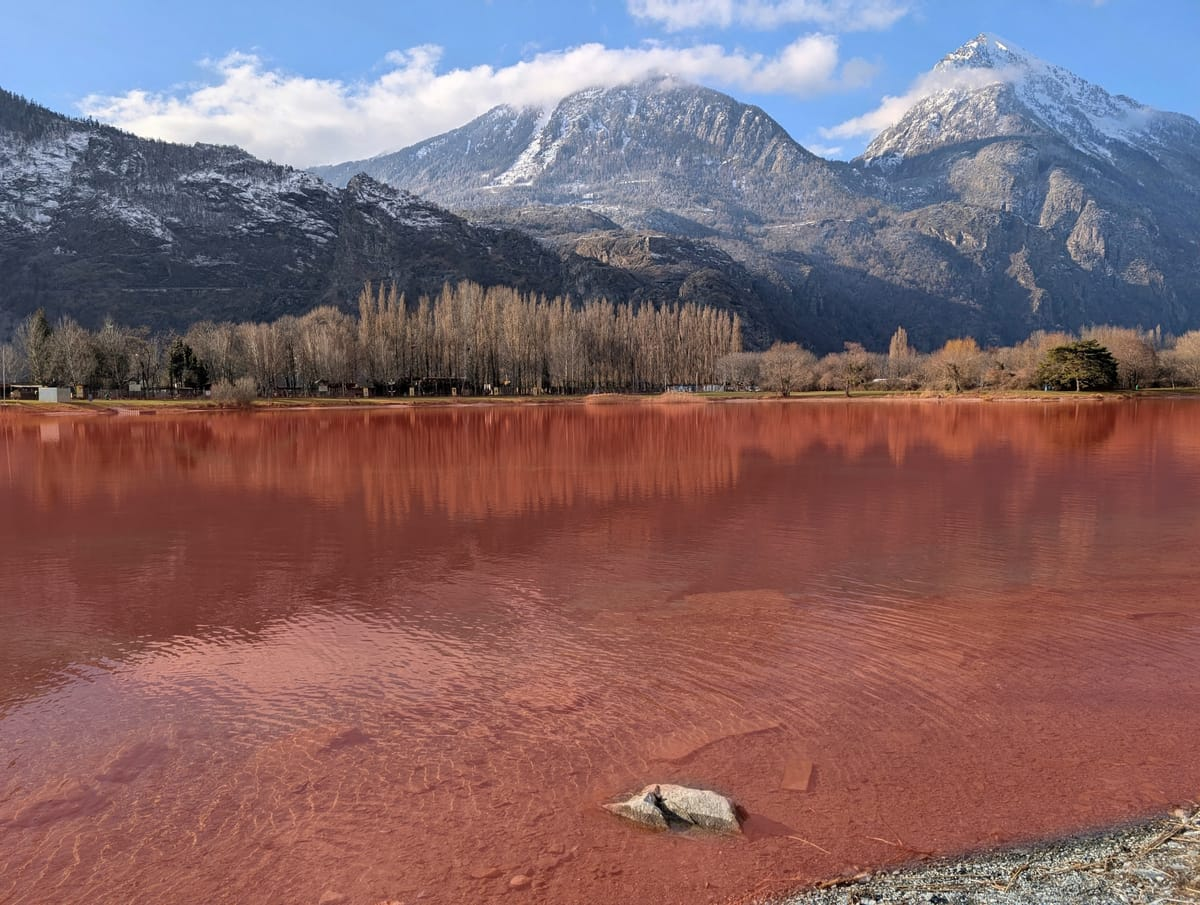
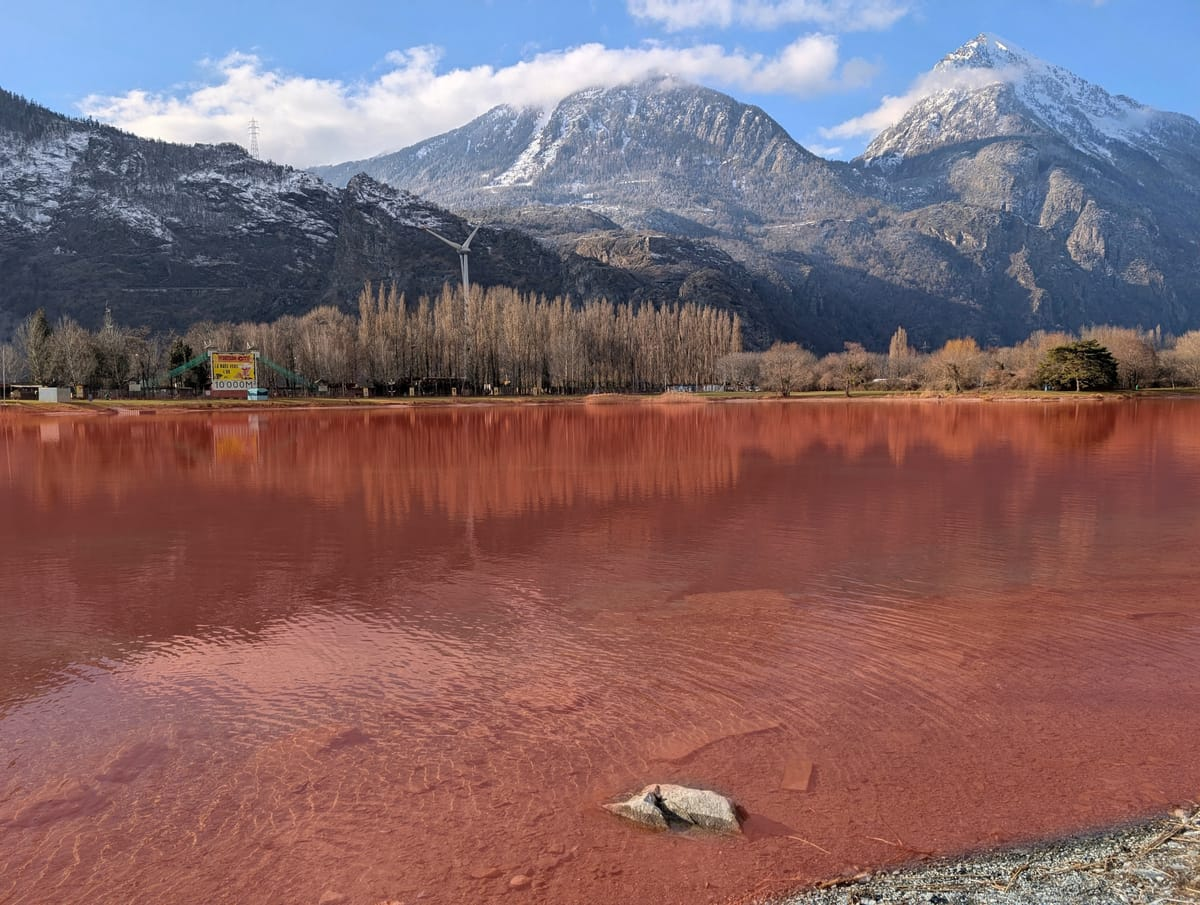
feat(images): apply the Gate 3 choices
Hero: lac du Rosel with only the power lines removed (wind turbine, billboard
and pylons kept), same rule on the Rosel photo of the places; interlude B is
the current image without its watermark; option B and the other candidates
removed. Logo navy on white or white on black only: icons navy on white.

Changed region(s): [[0.1233, 0.3713, 0.2467, 0.526], [0.3392, 0.2475, 0.4008, 0.3713], [0.185, 0.1547, 0.2158, 0.1856]]

diff --git a/src/assets/images/CREDITS.md b/src/assets/images/CREDITS.md
@@ -6,21 +6,18 @@
 
 | Fichier | Source | Auteur / outil | Traitement |
 |---|---|---|---|
-| `hero/rosel.jpg` (4080×3072) | `original/rosel_2.jpg` (lac du Rosel, Martigny ; original de l'ancien `rosel-2400.jpg`) | Nicholas Jallan ; retouche Gemini | **Retouche de nettoyage** (gate 3, option A) : lignes électriques, pylône, éolienne et son reflet, panneau « Western City / 10 000 m² » et son reflet, toboggans, deux petits mâts. Méthode : 8 tuiles retouchées à quasi pleine résolution (×1,23 au plus), recalées automatiquement, calées en couleur sur l'original et fondues ; l'eau et le premier plan restent les pixels d'origine. Contrôle avant/après à 100 % : `plans/refonte-la-descente/gates/gate-3/02-hero-a-zoom-100.jpg` |
-| `hero/sion.jpg` (3200×1800) | `original/sion_les_iles_1.jpg` (Les Îles, Sion, au crépuscule) | Nicholas Jallan | Gate 3, option B : réduit de 5312 px, sans retouche |
+| `hero/rosel.jpg` (4080×3072) | `original/rosel_2.jpg` (lac du Rosel, Martigny ; original de l'ancien `rosel-2400.jpg`) | Nicholas Jallan ; retouche Gemini | **Retouche de nettoyage** (Gate 3, D32) : **seuls les fils électriques** sont retirés ; l'éolienne, le pylône, le panneau « Western City », les toboggans et leurs reflets restent. Méthode : 4 tuiles du ciel et des montagnes retouchées à quasi pleine résolution (×1,23), recalées automatiquement, calées en couleur sur l'original et fondues ; l'eau, la rive et le premier plan restent les pixels d'origine. Contrôle avant/après : `plans/refonte-la-descente/gates/gate-3/11-hero-retenu.jpg` |
 | `places/sion.jpg` (1600×2000) | `original/sion_les_iles_1.jpg` | Nicholas Jallan | Recadrage 4:5 (x 1750, largeur 2390) |
-| `places/rosel.jpg` (1600×2000) | `original/rosel_3.jpg` | Nicholas Jallan ; retouche Gemini | Recadrage 4:5 (x 1780, y 197, 2300×2875) ; **retouche de nettoyage** : petits pylônes et lignes le long de la rive (une tuile 1600×900, fondue sur la rive seulement) |
+| `places/rosel.jpg` (1600×2000) | `original/rosel_3.jpg` | Nicholas Jallan ; retouche Gemini | Recadrage 4:5 (x 1780, y 197, 2300×2875) ; **retouche de nettoyage** (D32) : seules les lignes électriques le long de la rive sont retirées, les pylônes restent (une tuile 1600×900, fondue sur la rive seulement) |
 | `places/leman.jpg` (1600×2000) | `original/leman_chateau_chillon.jpg` (château de Chillon) | Nicholas Jallan | Recadrage 4:5 (x 300, largeur 2458) |
 | `instructor/nicholas-4x5.jpg` (1794×2243) | ancien `nicholas.jpg` (Nicholas et une élève en surface) | Nicholas Jallan | Recadrage 4:5 (desktop), x 224 |
 | `instructor/nicholas-1x1.jpg` (2019×2019) | ancien `nicholas.jpg` | Nicholas Jallan | Recadrage 1:1 resserré (mobile), x 112, y 224 |
 | `interludes/descent-16x9.jpg` (1707×960) | ancien `bde.jpg` (plongeur et requins-marteaux) | Nicholas Jallan | Interlude A, desktop : recadrage 16:9 (y 100), **signature « © Nicholas Jallan » hors cadre** ; crédit en légende |
 | `interludes/descent-4x5.jpg` (952×1190) | ancien `bde.jpg` | Nicholas Jallan | Interlude A, mobile : recadrage 4:5 (x 700), signature hors cadre |
-| `interludes/light-1.jpg` (2752×1536) | ancien `hirondelle.png` (1365×768, visuel IA de 2026) | Gemini | **Visuel généré par IA**, candidat 1 de l'interlude B : filigrane ✦ retiré par Gemini (« remove only the small four-pointed star watermark… »), agrandi ×2 (Lanczos + accentuation légère) |
-| `interludes/light-2.jpg` (2752×1536) | génération | Gemini | **Visuel généré par IA**, candidat 2. Prompt : « Photorealistic underwater photograph, wide 16:9 cinematic frame, shot at 40 metres depth in a cold, clear alpine lake. An old steamboat wreck rests on a silty slope, its bow and a small ship's bell encrusted with freshwater sediment. Two technical divers on closed-circuit rebreathers (back-mounted units, black drysuits, side-mounted aluminium bailout cylinders), seen from behind and in three-quarter profile, hover horizontally in perfect trim beside the wreck; their faces are hidden by masks, hoods and the camera angle, nobody is recognisable. Their dive torches glow warm red, the only red in the scene: at this depth all other colours have faded into a deep blue-teal monochrome. Soft blue ambient light filters from above, fine suspended particles, slight backscatter, natural lens vignetting. Calm, silent, contemplative mood. Keep the upper-left third of the frame as open, dark blue water (negative space for a text overlay). Realistic DSLR wide-angle look, natural grain, no text, no logos, no watermark, no signature. » 1376×768, agrandi ×2 |
-| `interludes/light-3.jpg` (2752×1536) | génération | Gemini | **Visuel généré par IA**, candidat 3. Prompt : « Photorealistic underwater photograph, wide 16:9 cinematic frame, deep in a cold alpine lake at about 40 metres. The bow of a sunken wooden-and-iron lake boat emerges from the blue darkness on the right side of the frame, covered in fine silt. A single technical diver on a back-mounted closed-circuit rebreather, seen from behind and slightly above, glides towards the wreck; only the warm red beam of the diver's torch carries colour, painting a red pool of light on the hull. Everything else has turned into deep, desaturated blue-teal, as red light is absorbed at depth. Faint shafts of light from the far surface, drifting particles, plenty of empty dark-blue water on the left half of the frame (negative space for text). No recognisable face. Realistic wide-angle underwater DSLR look, subtle grain, no text, no logos, no watermark, no signature. » 1376×768, agrandi ×2 (Gemini a dessiné un bi-bouteille dorsal, pas un recycleur) |
+| `interludes/light.jpg` (2752×1536) | ancien `hirondelle.png` (1365×768, visuel IA de 2026) | Gemini | **Visuel généré par IA**, interlude B (Gate 3, D33) : filigrane ✦ retiré par Gemini (« remove only the small four-pointed star watermark… »), agrandi ×2 (Lanczos + accentuation légère) |
 | `prepare/gears.jpg` (800×800) | ancien `gears.jpg` (matériel sur un bateau) | Nicholas Jallan | Déplacé, inchangé |
 | `../brand/LogoFull.png` (1825×2256) | logo de Bulles en Valais | Nicholas Jallan | Source du logo, inchangée |
-| `../brand/logo.svg` | `LogoFull.png` | potrace 1.16 + svgo 4.1 (`scripts/trace-logo.mjs`) | **Vectorisation** du trait bleu nuit (les aplats blancs deviennent transparents), groupes `#mark`, `#bubbles` (14 bulles, un tracé chacune), `#wordmark` ; en attendant le fichier .ai (I-02) |
+| `../brand/logo.svg` | `LogoFull.png` | potrace 1.16 + svgo 4.1 (`scripts/trace-logo.mjs`) | **Vectorisation** du trait bleu nuit (les aplats blancs deviennent transparents), groupes `#mark`, `#bubbles` (14 bulles, un tracé chacune), `#wordmark` ; en attendant le fichier .ai (I-02). Toujours **bleu sur blanc ou blanc sur noir**, jamais animé (D35) |
 | `../textures/water-mask.png` (512×386) | `hero/rosel.jpg` | `scripts/make-water-mask.mjs` | Masque d'eau d'E1 : polygone de la rive réglé à la main, rocher émergé exclu, bord flouté |
-| `public/favicon.svg`, `apple-touch-icon.png`, `icon-192.png`, `icon-512.png` | `#mark` de `logo.svg` | `scripts/make-icons.mjs` | Symbole seul ; favicon bleu nuit, écume en mode sombre ; icônes écume sur tuile bleu nuit |
+| `public/favicon.svg`, `favicon.ico`, `apple-touch-icon.png`, `icon-192.png`, `icon-512.png` | `#mark` de `logo.svg` | `scripts/make-icons.mjs` | Symbole seul ; favicon bleu nuit, blanc en mode sombre, `favicon.ico` 32 px de secours ; icônes bleu nuit sur blanc (D35) |
 | `public/og/og-fr.jpg`, `og-en.jpg` (1200×630) | `hero/rosel.jpg`, `logo.svg`, titre du hero | `scripts/make-og.mjs` | Recadrage du hero, logo écume, titre en Instrument Serif (OFL 1.1, `scripts/fonts/`) tracé en chemins |
